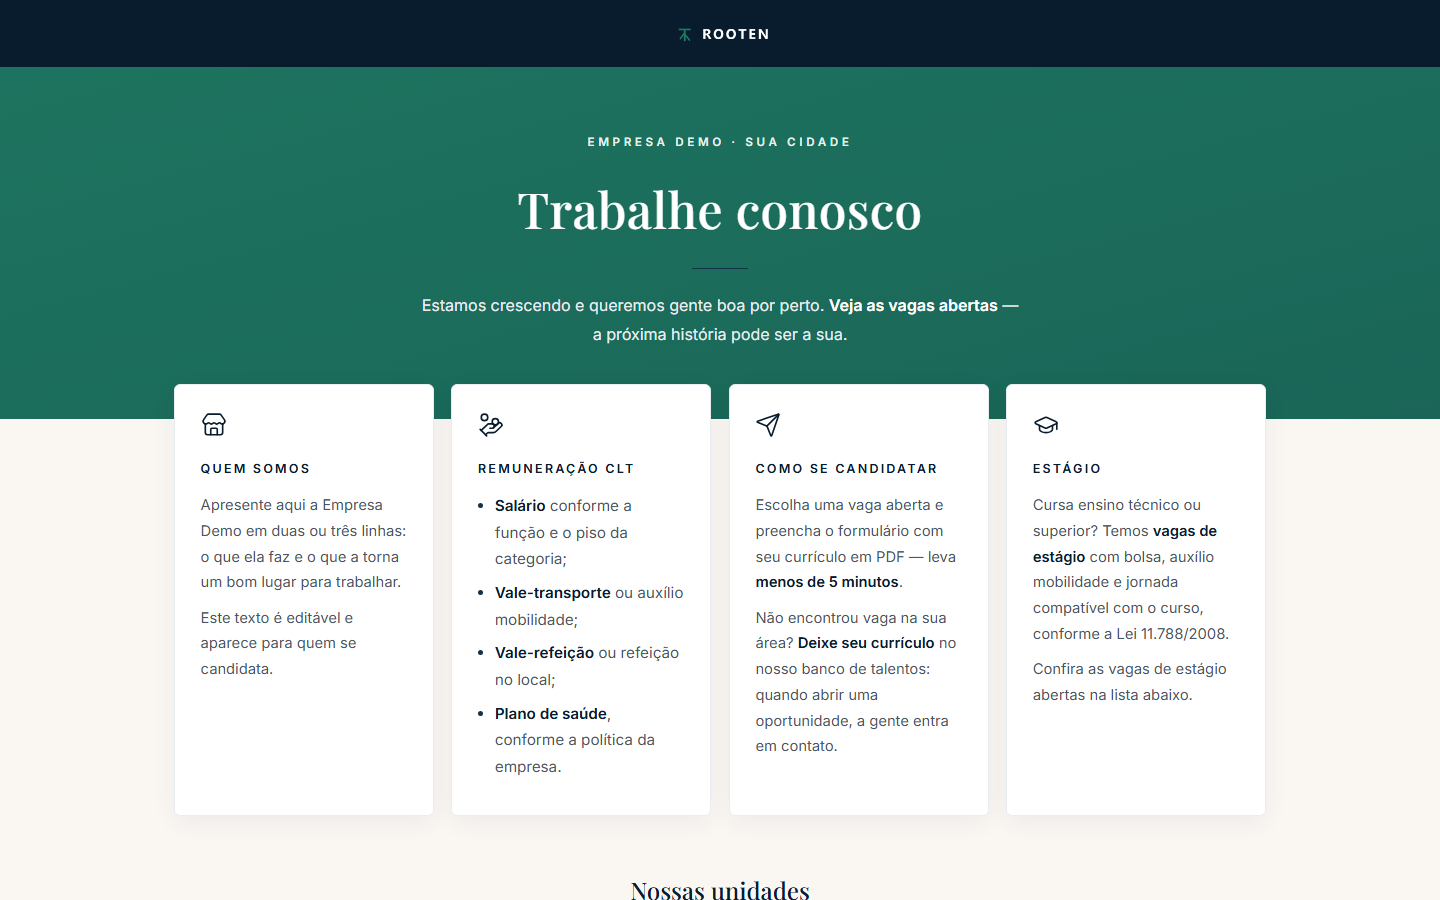
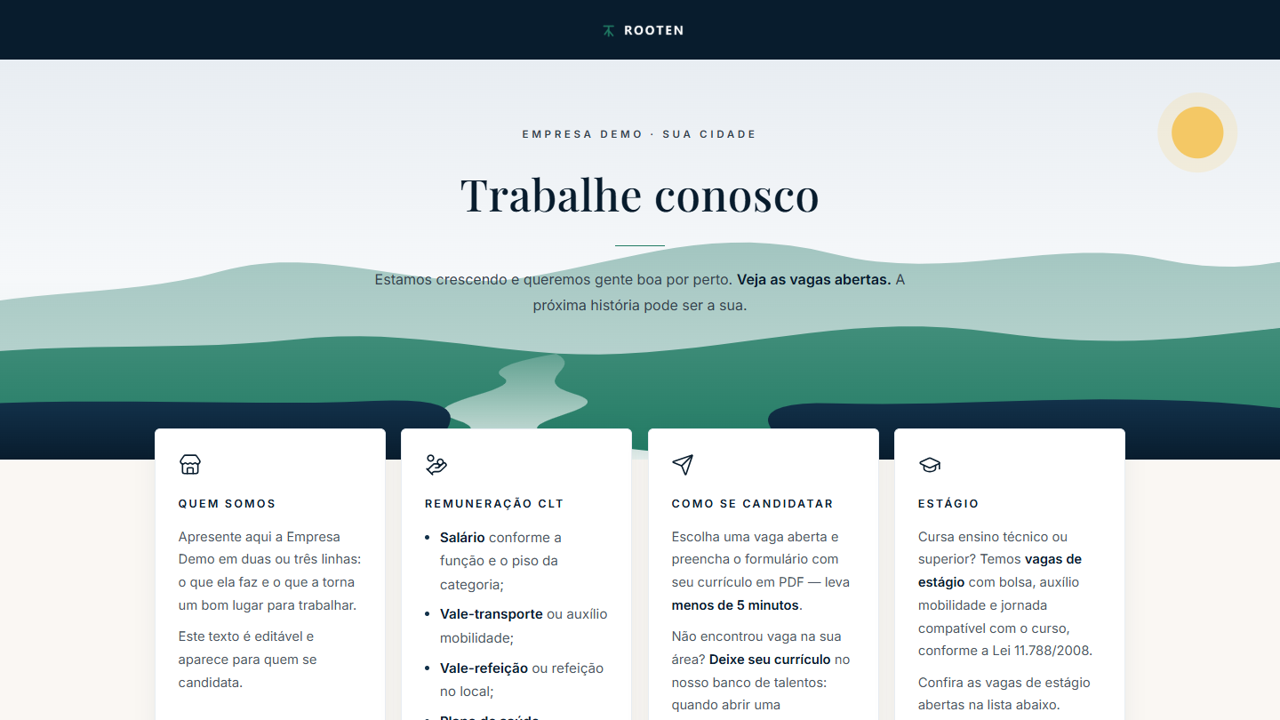
Atualiza os prints da capa, do mural e das vagas

diff --git a/README.md b/README.md
@@ -76,7 +76,7 @@
 
 <p align="center">
   <img src="img/home.png" width="49%" alt="Capa do portal">
-  <img src="img/colaborador.png" width="49%" alt="Mural do colaborador">
+  <img src="img/colaborador.png" width="49%" alt="Tela inicial do colaborador com o mural">
 </p>
 <p align="center">
   <img src="img/vagas.png" width="70%" alt="Página pública de vagas">
